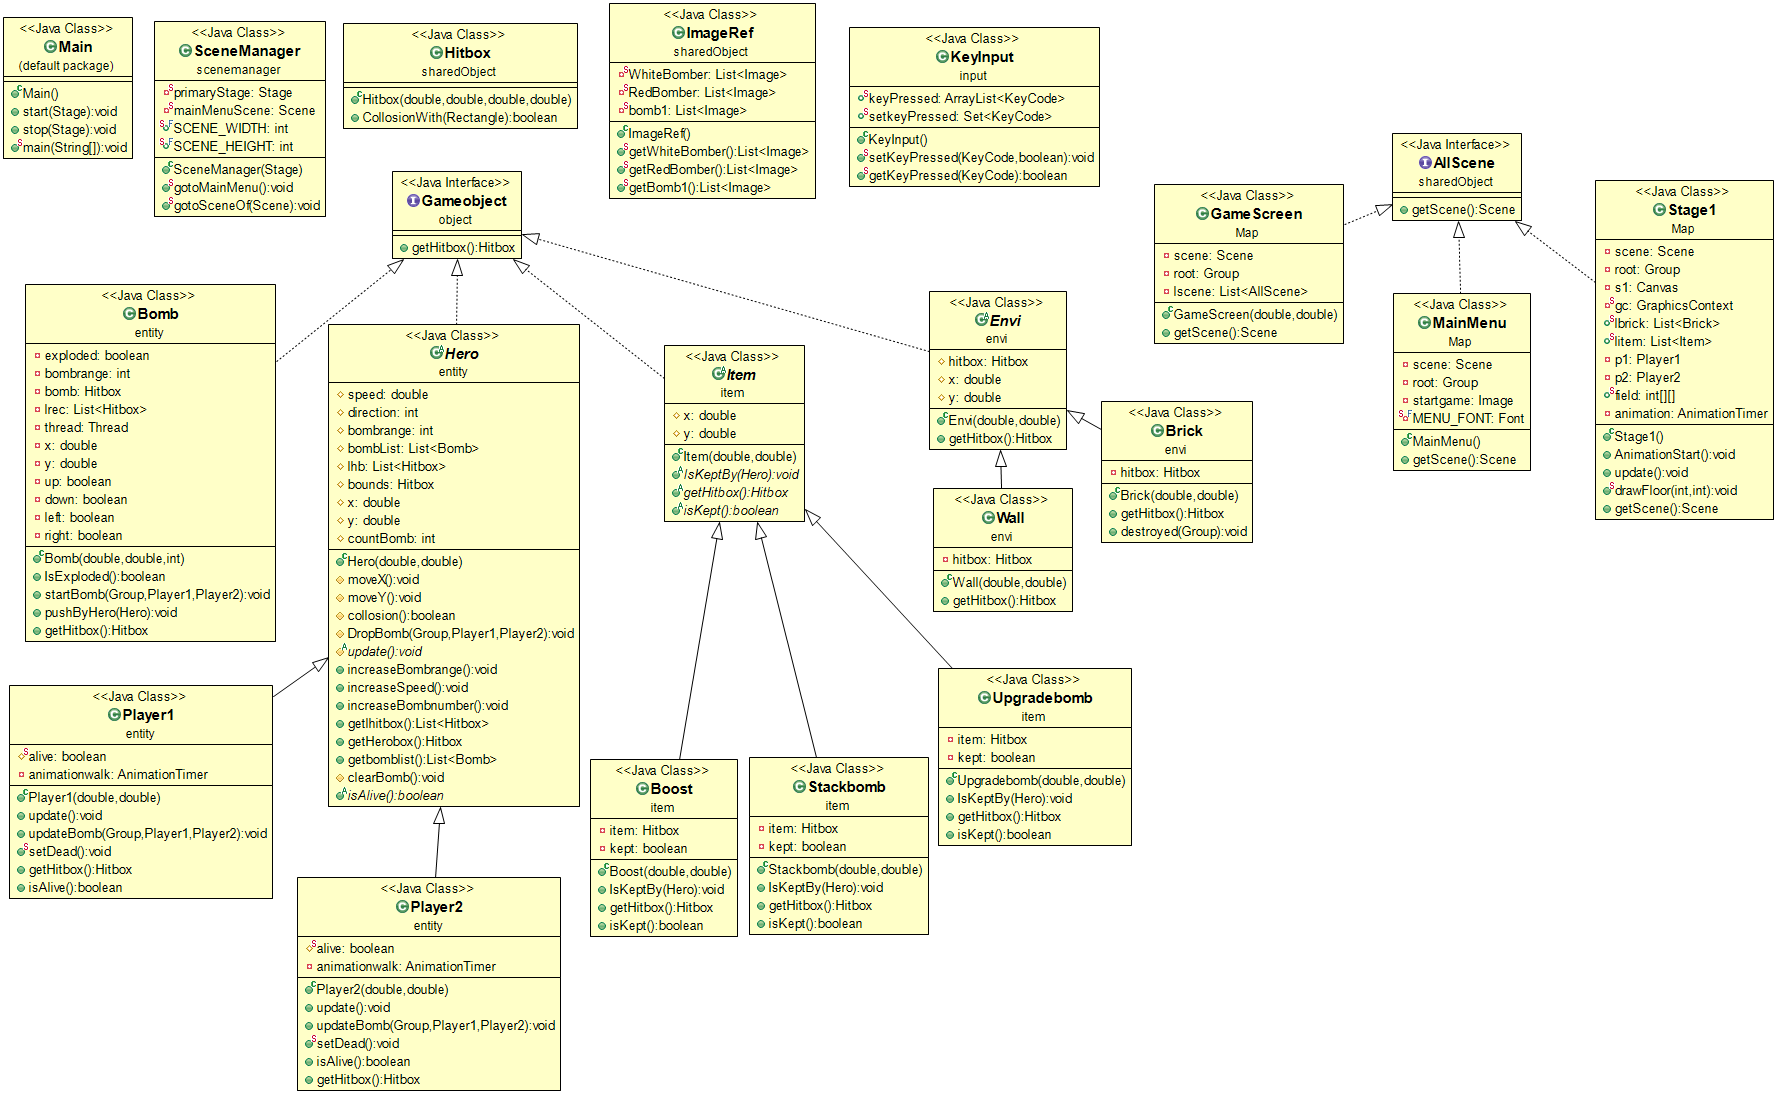
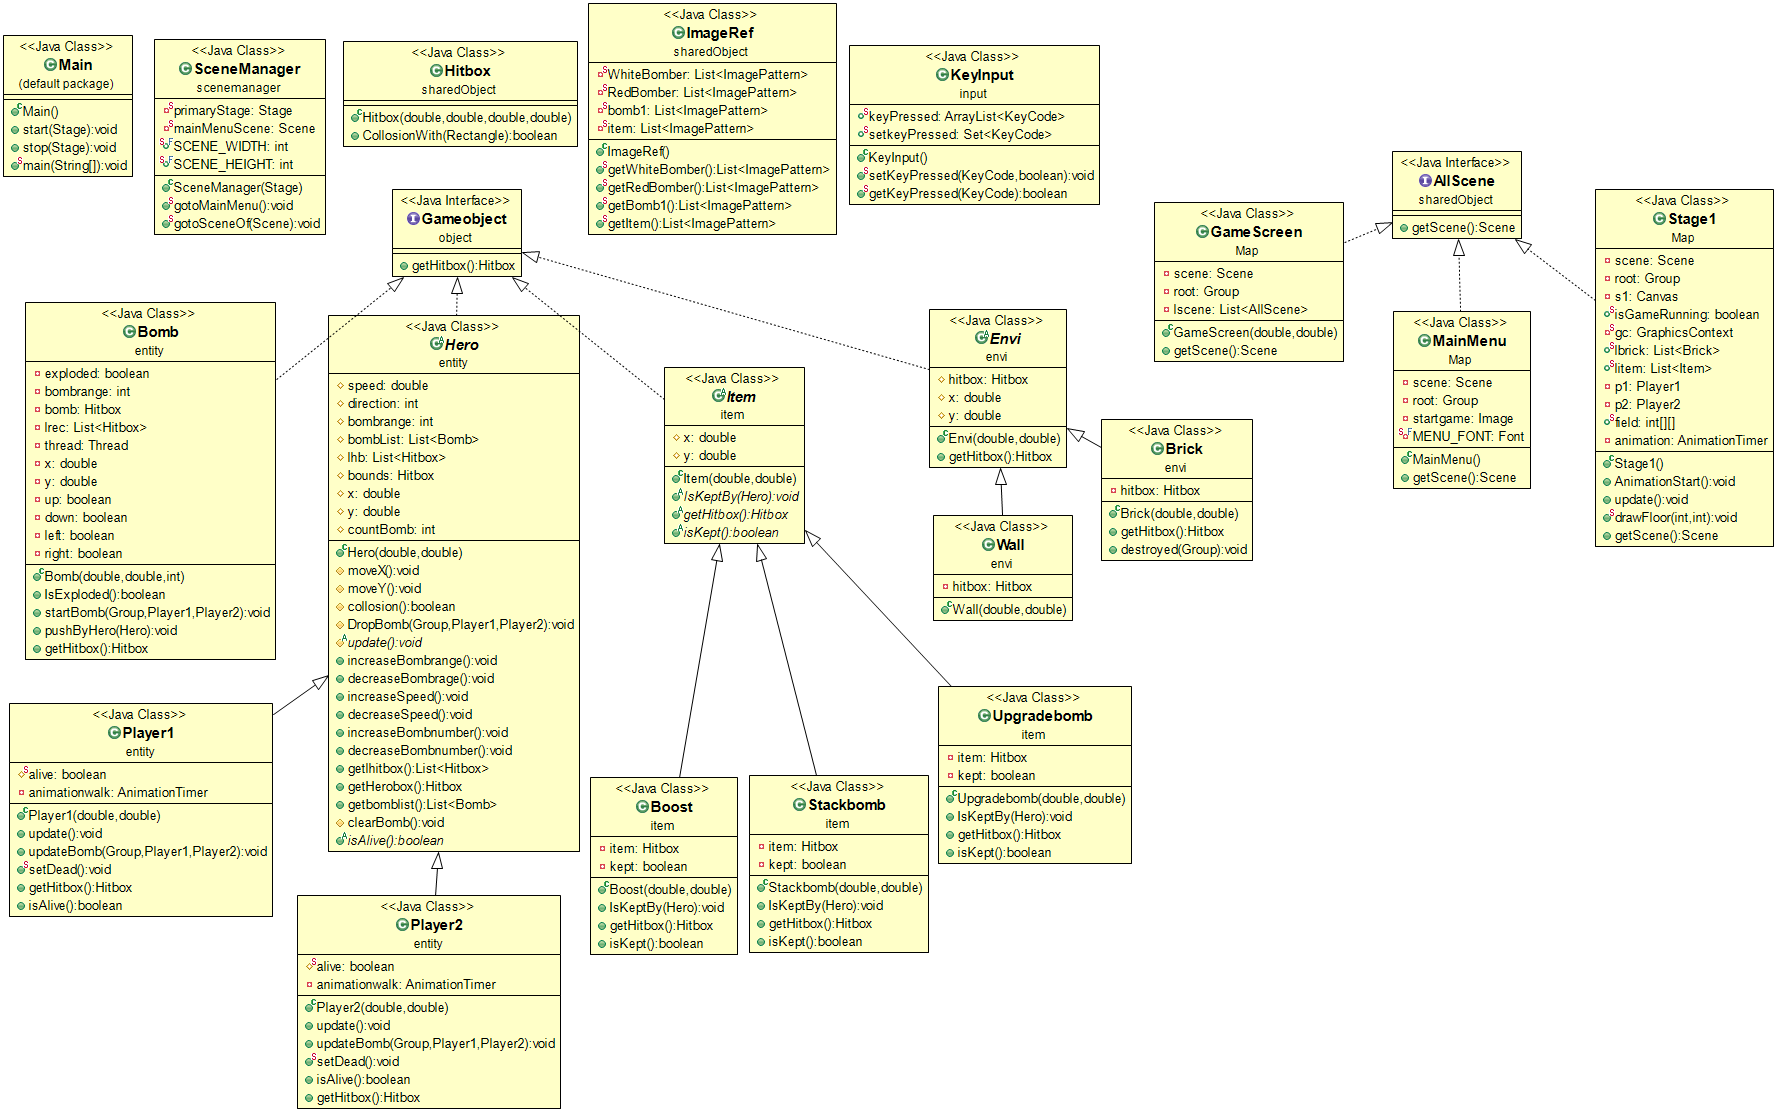
remove unuse method

diff --git a/src/envi/Wall.java b/src/envi/Wall.java
@@ -12,9 +12,5 @@ public class Wall extends Envi{
 		hitbox.setFill(new ImagePattern(new Image(ClassLoader.getSystemResource("wall.png").toString())));
 		hitbox.setVisible(true);
 	}
-	public Hitbox getHitbox() {
-		return hitbox;
-	}
-	
 
 }

diff --git a/src/Map/Stage1.java b/src/Map/Stage1.java
@@ -266,7 +266,5 @@ public class Stage1 implements AllScene {
 		return this.scene;
 
 	}
-	public void updateItem() {
-	}
 
 }
